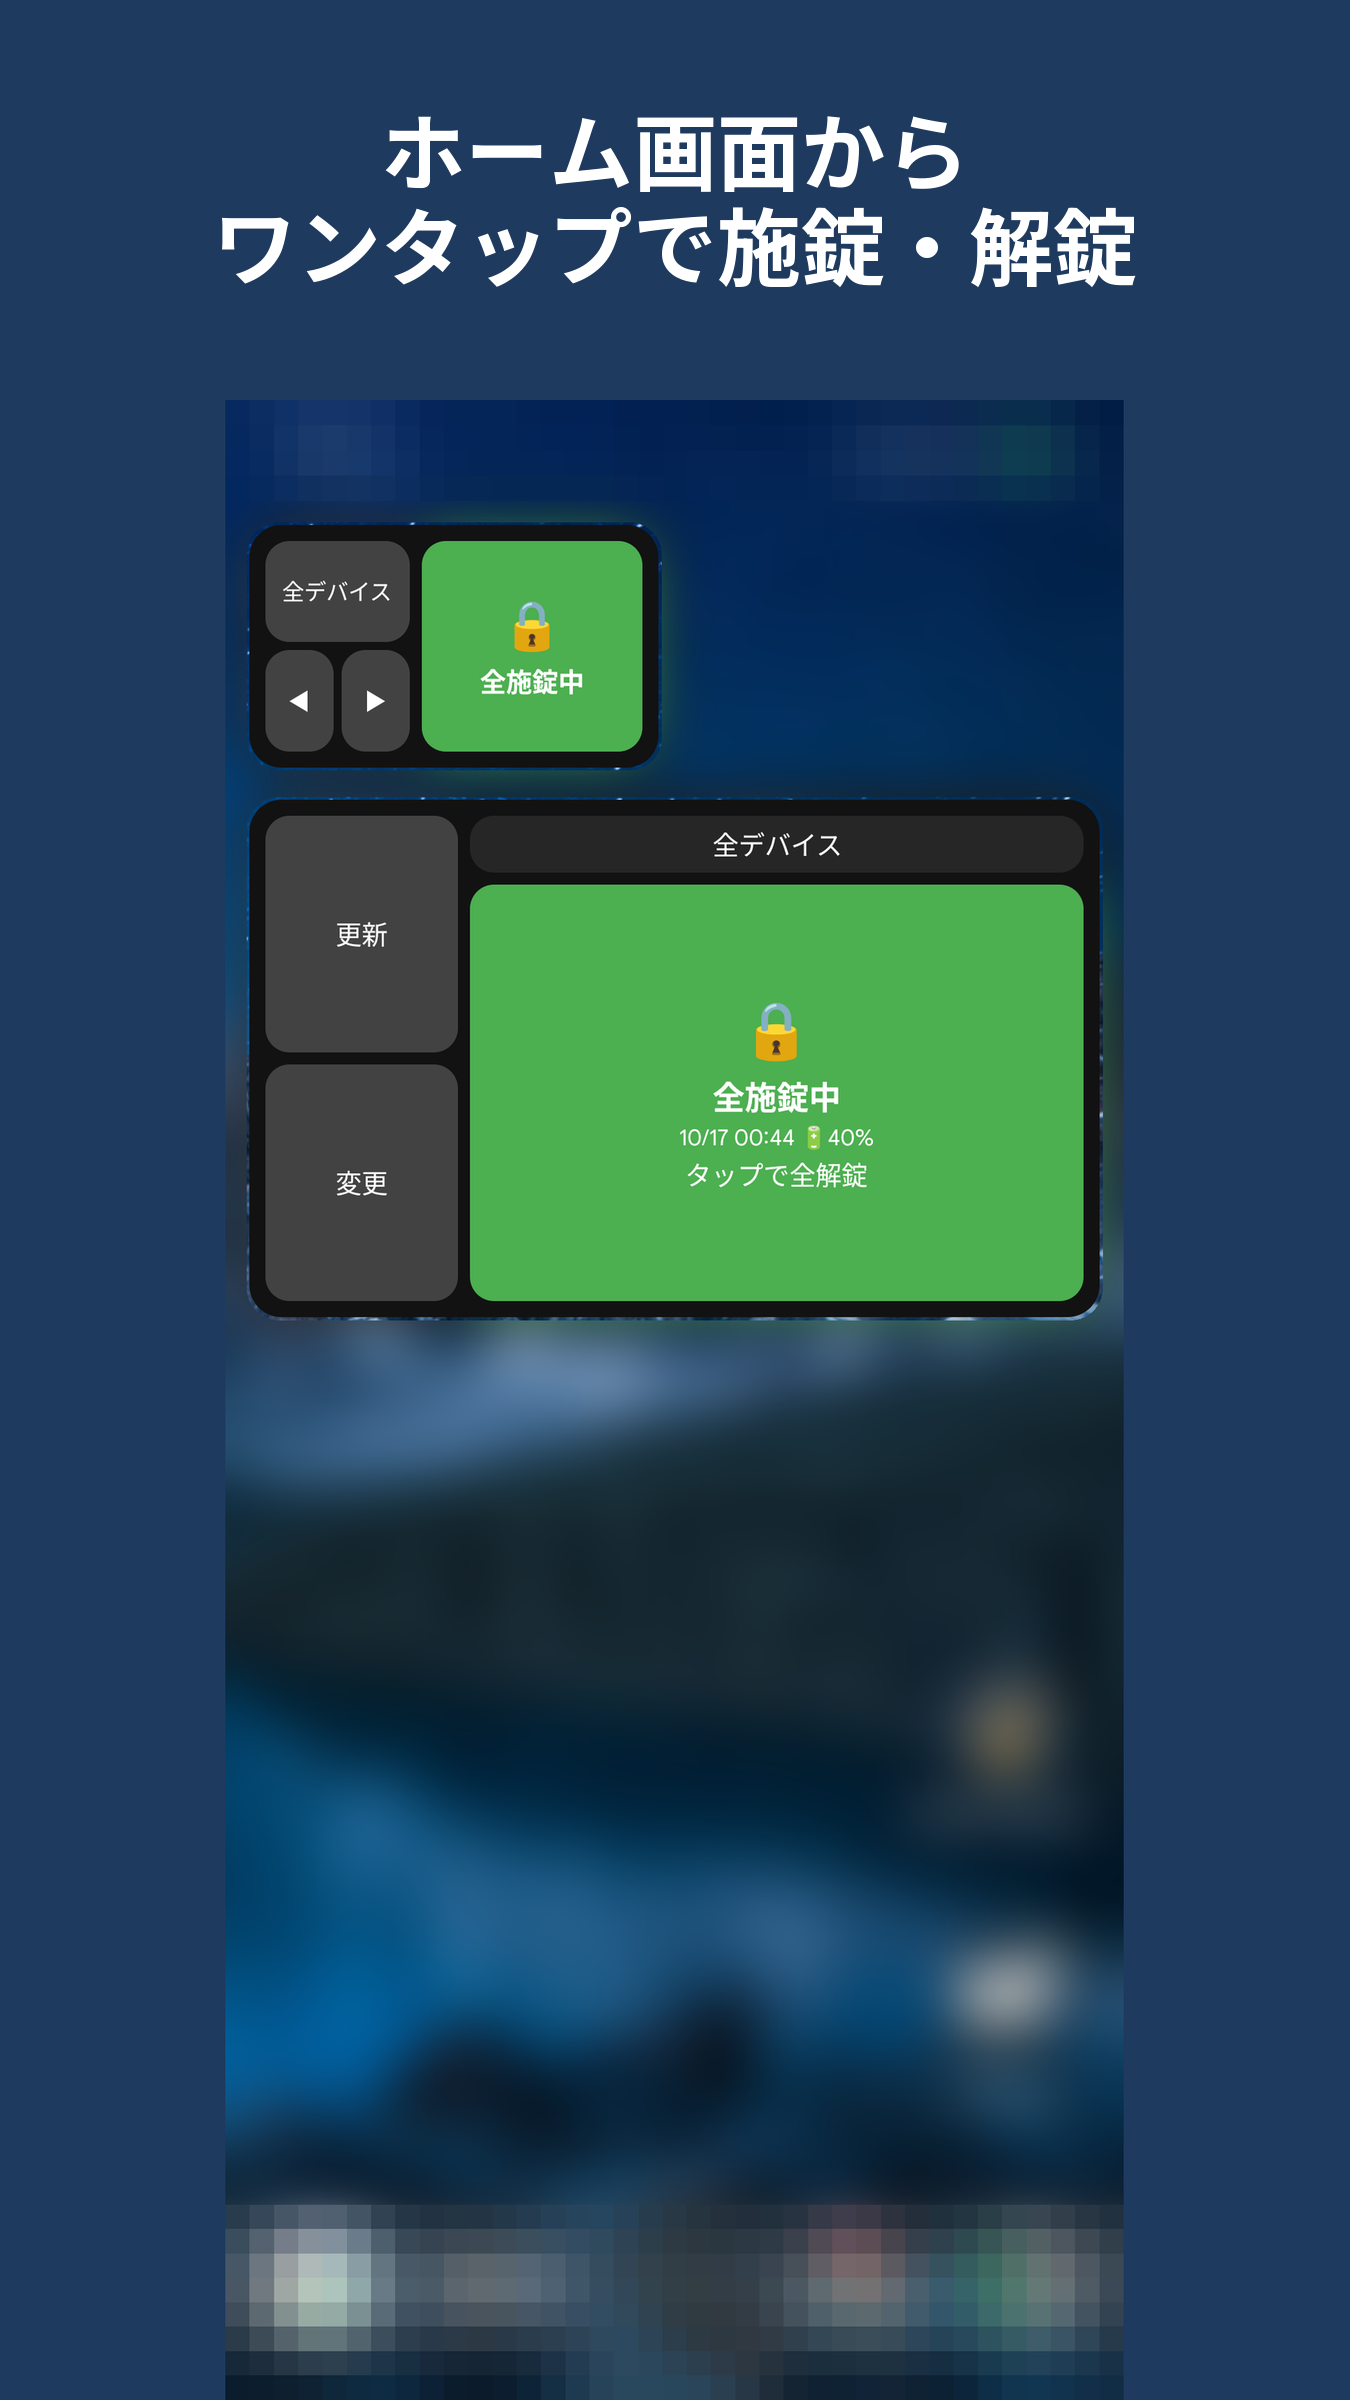
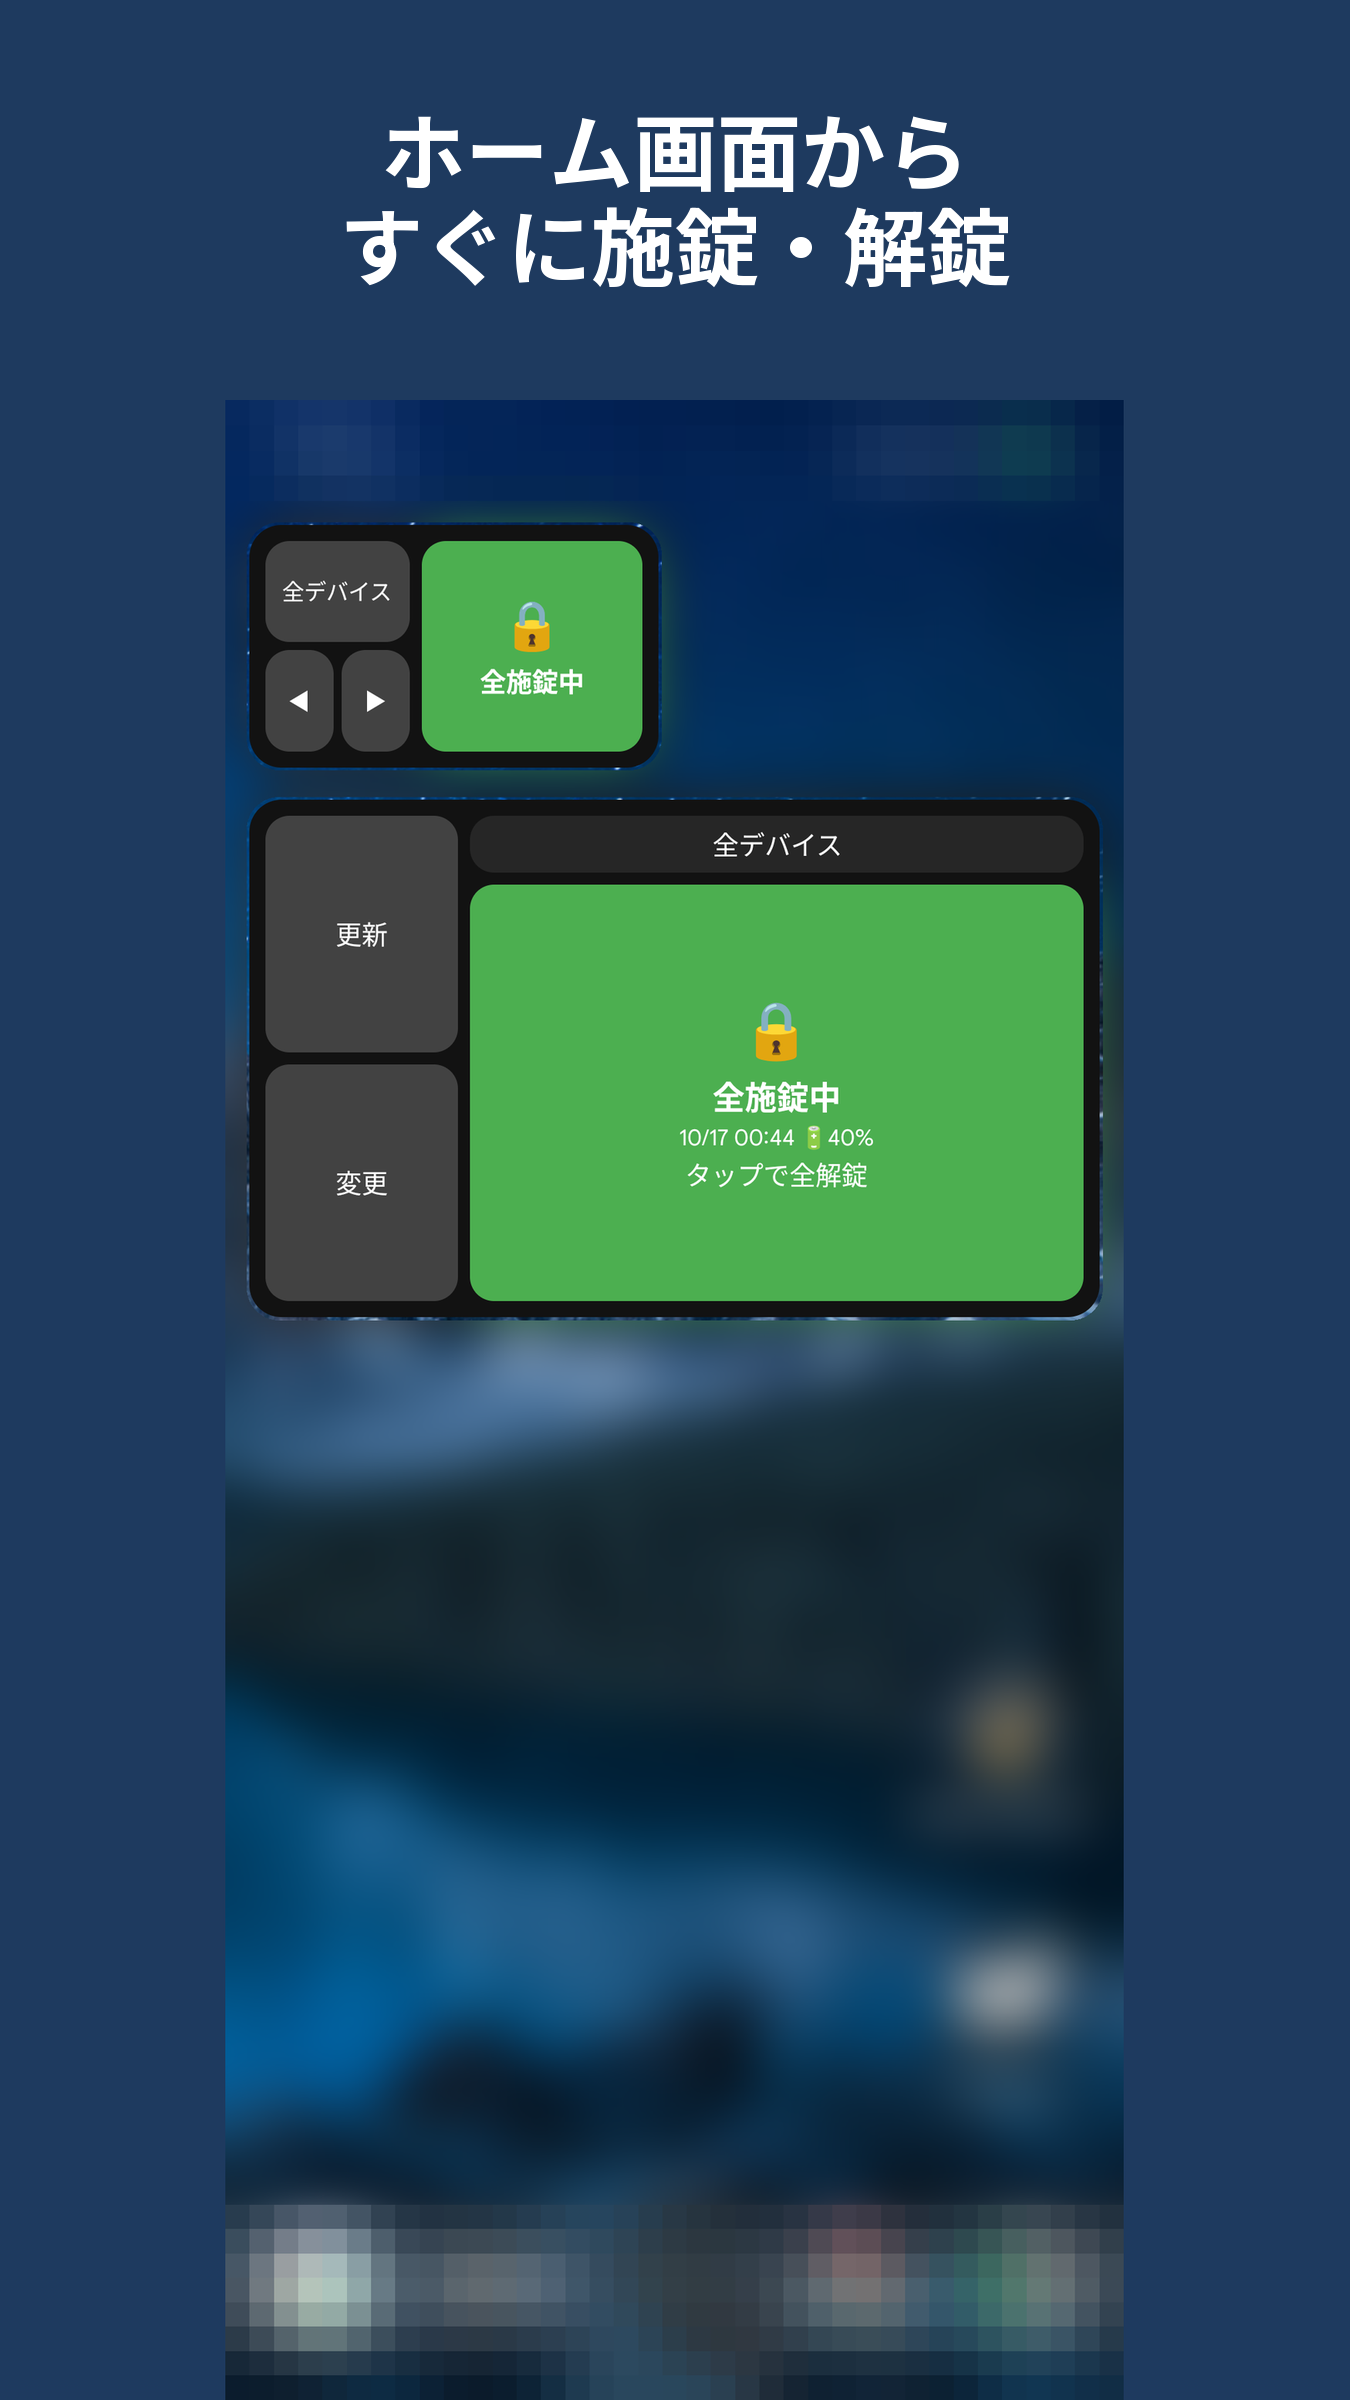
docs: 📝 phone_1 の説明文を「すぐに施錠・解錠」へ変える
対象: BL-286
- 解錠は確認を挟むため「ワンタップ」が実挙動と合わず、ユーザーの決定で文言を変更
- スクリプト・画像・docs/store/README.md の一覧を追随（他の7枚は変更なし）

Claude-Session: https://claude.ai/code/session_01WnqNbZ6ebvCGnSnCY76eMN

Changed region(s): [[0.1556, 0.0625, 0.84, 0.125]]

diff --git a/scripts/caption-screenshots.py b/scripts/caption-screenshots.py
@@ -37,7 +37,7 @@ SIDE_MARGIN = 60
 
 # 半角空白は改行してよい位置。表示では空白で2行に分ける。
 CAPTIONS = {
-    "phone_1_widget_locked.png": "ホーム画面から ワンタップで施錠・解錠",
+    "phone_1_widget_locked.png": "ホーム画面から すぐに施錠・解錠",
     "phone_2_widget_unlock_confirm.png": "解錠は確認してから実行",
     "phone_3_widget_unlocked.png": "1台ずつ・全台まとめて 状態がひと目で分かる",
     "phone_4_device_list.png": "セサミごとの状態と 電池を一覧で確認",

diff --git a/docs/records/managed/EXECUTE.md b/docs/records/managed/EXECUTE.md
@@ -6,6 +6,23 @@
 <!-- COPILOT_RECORDS:BEGIN -->
 ```yaml
 - date: 2026-11-19 14:00
+  summary: phone_1 の説明文を「ホーム画面から すぐに施錠・解錠」へ変える（ユーザーの決定）
+  details:
+    変更内容: >-
+      ユーザーの決定（「phone_1は案Bで」）により、phone_1 の説明文を「ホーム画面から ワンタップで施錠・解錠」から「ホーム画面から すぐに施錠・解錠」へ変えた（解錠は確認を挟むため「ワンタップ」が実挙動と合わない）。決定の範囲は phone_1 だけで、他の7枚の文言は変えていない。空白なしでは幅に収まらないため、半角空白で2行にした（既定値）。scripts/caption-screenshots.py と docs/store/README.md の一覧を直し、phone_1 の画像を作り直した。再生成後に差分が出たのは phone_1 だけで、他の7枚は直前とバイト一致。縮小した説明文の領域で欠け・はみ出し・豆腐が無いことを確認した。
+    変更ファイル:
+      - scripts/caption-screenshots.py
+      - docs/store/images/screenshots_captioned/phone_1_widget_locked.png
+      - docs/store/README.md
+      - docs/records/managed/EXECUTE.md
+    検証コマンド: >-
+      python scripts/caption-screenshots.py / npx markdownlint-cli2 "**/*.md" / python scripts/validate-records.py / python scripts/scan-secrets.py --require-changes
+    検証結果: >-
+      成功 - phone_1 のみ変化、各ゲート終了コード0。
+    関連ID:
+      - BL-286
+
+- date: 2026-11-19 14:00
   summary: 説明文入り画像のスクリプトで、全入力の検査を書き出しの前にまとめて行う（2回目の差分レビューの指摘対応）
   details:
     変更内容: >-
